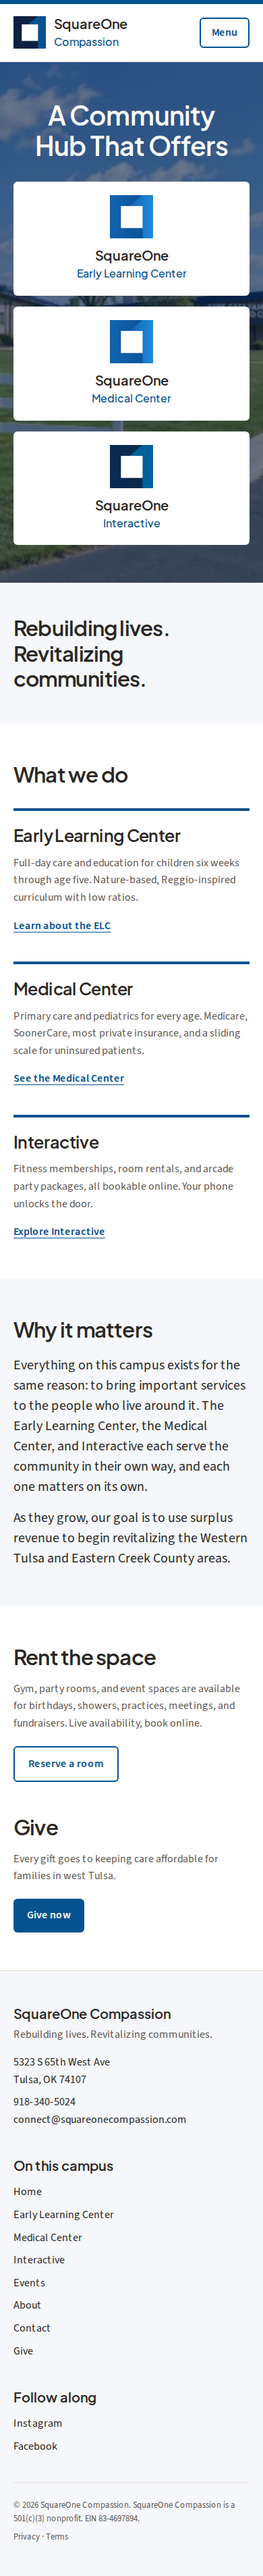
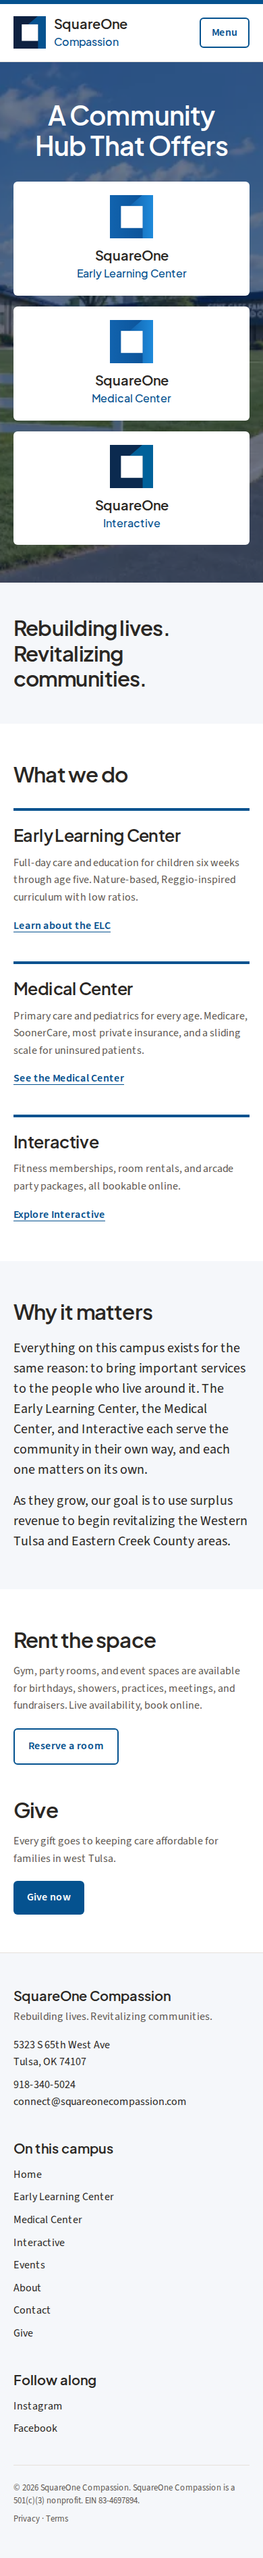
Home: drop "Your phone unlocks the door" from the Interactive card
Claude-Session: https://claude.ai/code/session_01Dy1NBE1CDjARVuM4emY1ru

diff --git a/app/page.tsx b/app/page.tsx
@@ -32,7 +32,7 @@ export default function HomePage() {
           />
           <DivisionCard
             title="Interactive"
-            body="Fitness memberships, room rentals, and arcade party packages, all bookable online. Your phone unlocks the door."
+            body="Fitness memberships, room rentals, and arcade party packages, all bookable online."
             linkLabel="Explore Interactive"
             href="/interactive"
           />

diff --git a/content/COPY.md b/content/COPY.md
@@ -43,7 +43,7 @@ Primary care and pediatrics for every age. Medicare, SoonerCare, most private in
 Link: See the Medical Center
 
 *Interactive*
-Fitness memberships, room rentals, and arcade party packages, all bookable online. Your phone unlocks the door.
+Fitness memberships, room rentals, and arcade party packages, all bookable online.
 Link: Explore Interactive
 
 **Section: Why it matters**
